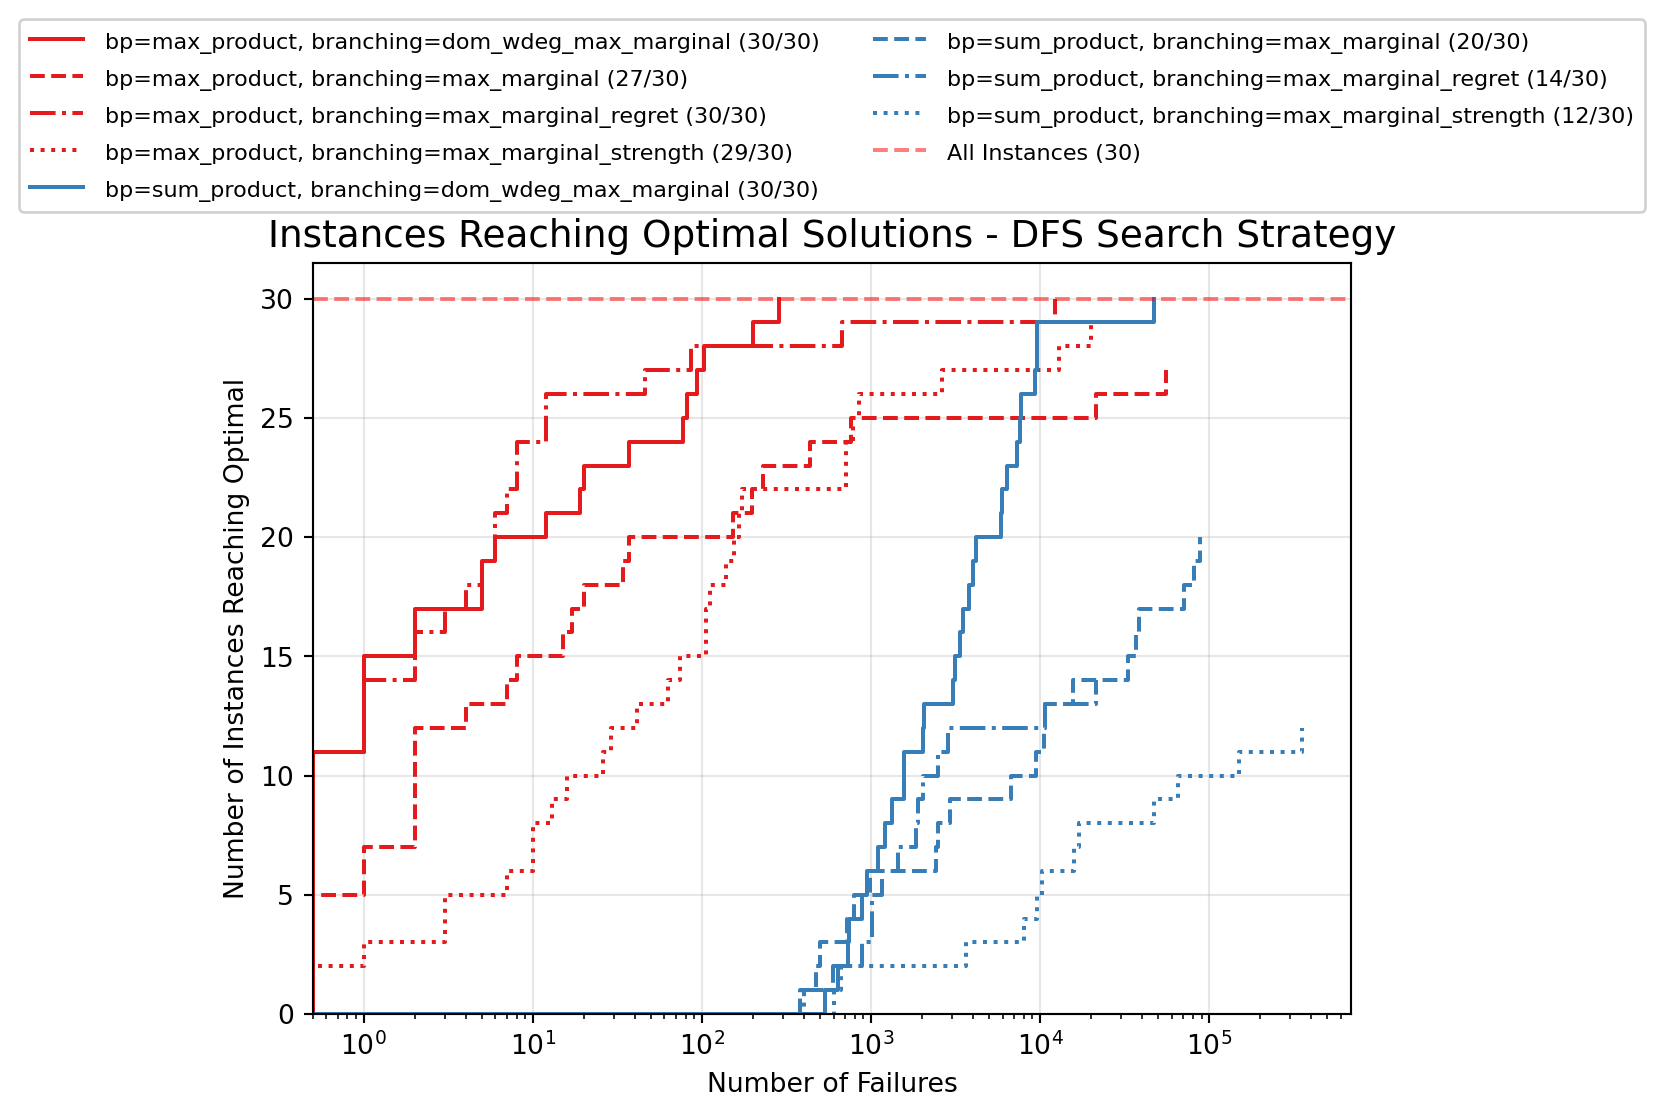
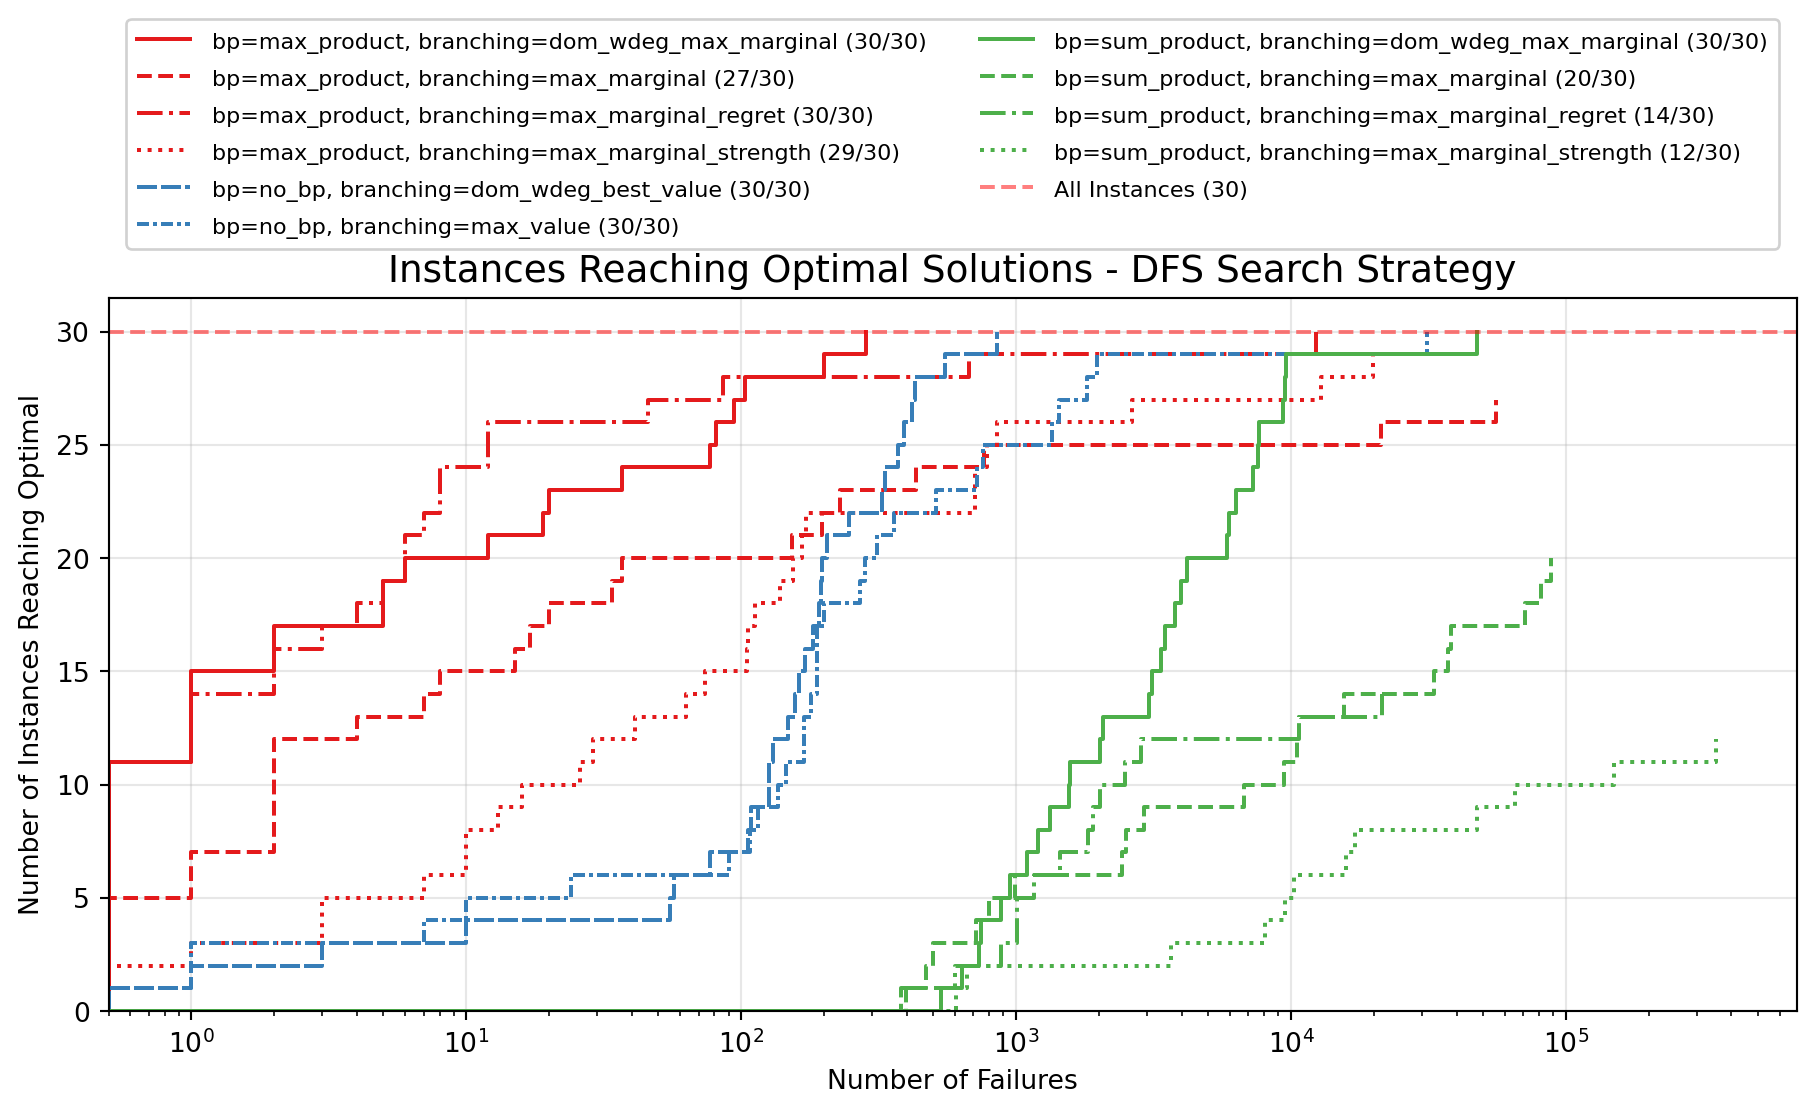
latin-square updates

diff --git a/cpbp/latin-square/branching-comparison.html b/cpbp/latin-square/branching-comparison.html
@@ -118,7 +118,7 @@ pre > code.sourceCode > span > a:first-child::before { text-decoration: underlin
 <section id="latin-square-branching-heuristic-comparison-regret-strength-max-regret" class="level1">
 <h1>Latin Square: Branching Heuristic Comparison (Regret, Strength, Max-Regret)</h1>
 <p>This notebook compares different branching heuristics for solving Latin Square optimization problems using both Sum-product and Max-product belief propagation algorithms.</p>
-<div id="c56ee7b6" class="cell" data-execution_count="1">
+<div id="1775b8c2" class="cell" data-execution_count="1">
 <details class="code-fold">
 <summary>Code</summary>
 <div class="sourceCode cell-code" id="cb1"><pre class="sourceCode python code-with-copy"><code class="sourceCode python"><span id="cb1-1"><a href="#cb1-1" aria-hidden="true" tabindex="-1"></a><span class="im">from</span> experiment_api <span class="im">import</span> set_log_level, plot_optimal_solutions_reached</span>
@@ -127,44 +127,48 @@ pre > code.sourceCode > span > a:first-child::before { text-decoration: underlin
 <span id="cb1-4"><a href="#cb1-4" aria-hidden="true" tabindex="-1"></a><span class="co"># Set log level to INFO</span></span>
 <span id="cb1-5"><a href="#cb1-5" aria-hidden="true" tabindex="-1"></a>set_log_level(<span class="st">'INFO'</span>)</span>
 <span id="cb1-6"><a href="#cb1-6" aria-hidden="true" tabindex="-1"></a></span>
-<span id="cb1-7"><a href="#cb1-7" aria-hidden="true" tabindex="-1"></a>base_filter <span class="op">=</span> {</span>
+<span id="cb1-7"><a href="#cb1-7" aria-hidden="true" tabindex="-1"></a>base_filter_bp <span class="op">=</span> {</span>
 <span id="cb1-8"><a href="#cb1-8" aria-hidden="true" tabindex="-1"></a>    <span class="st">'oracle_weight'</span>: <span class="fl">1.0</span>,</span>
 <span id="cb1-9"><a href="#cb1-9" aria-hidden="true" tabindex="-1"></a>    <span class="st">'max_iter'</span>: <span class="dv">10</span>,</span>
 <span id="cb1-10"><a href="#cb1-10" aria-hidden="true" tabindex="-1"></a>}</span>
-<span id="cb1-11"><a href="#cb1-11" aria-hidden="true" tabindex="-1"></a>group_by <span class="op">=</span> [<span class="st">'bp'</span>, <span class="st">'branching'</span>]</span></code><button title="Copy to Clipboard" class="code-copy-button"><i class="bi"></i></button></pre></div>
+<span id="cb1-11"><a href="#cb1-11" aria-hidden="true" tabindex="-1"></a>base_filter_no_bp <span class="op">=</span> {</span>
+<span id="cb1-12"><a href="#cb1-12" aria-hidden="true" tabindex="-1"></a>    <span class="st">'bp'</span>: <span class="st">'no_bp'</span></span>
+<span id="cb1-13"><a href="#cb1-13" aria-hidden="true" tabindex="-1"></a>}</span>
+<span id="cb1-14"><a href="#cb1-14" aria-hidden="true" tabindex="-1"></a>group_by <span class="op">=</span> [<span class="st">'bp'</span>, <span class="st">'branching'</span>]</span></code><button title="Copy to Clipboard" class="code-copy-button"><i class="bi"></i></button></pre></div>
 </details>
 </div>
 <section id="limited-discrepancy-search-lds" class="level2">
 <h2 class="anchored" data-anchor-id="limited-discrepancy-search-lds">Limited Discrepancy Search (LDS)</h2>
 <p>In this section, we compare different branching heuristics using the LDS search strategy.</p>
-<div id="365c9639" class="cell" data-execution_count="2">
+<div id="200ab21d" class="cell" data-execution_count="2">
 <details class="code-fold">
 <summary>Code</summary>
 <div class="sourceCode cell-code" id="cb2"><pre class="sourceCode python code-with-copy"><code class="sourceCode python"><span id="cb2-1"><a href="#cb2-1" aria-hidden="true" tabindex="-1"></a><span class="co"># Create a filter for LDS search</span></span>
-<span id="cb2-2"><a href="#cb2-2" aria-hidden="true" tabindex="-1"></a>filter_criteria <span class="op">=</span> base_filter.copy()</span>
+<span id="cb2-2"><a href="#cb2-2" aria-hidden="true" tabindex="-1"></a>filter_criteria <span class="op">=</span> base_filter_bp.copy()</span>
 <span id="cb2-3"><a href="#cb2-3" aria-hidden="true" tabindex="-1"></a>filter_criteria[<span class="st">'search_type'</span>] <span class="op">=</span> <span class="st">'lds'</span></span>
-<span id="cb2-4"><a href="#cb2-4" aria-hidden="true" tabindex="-1"></a></span>
-<span id="cb2-5"><a href="#cb2-5" aria-hidden="true" tabindex="-1"></a><span class="co"># Plot the number of instances reaching optimal solutions</span></span>
-<span id="cb2-6"><a href="#cb2-6" aria-hidden="true" tabindex="-1"></a>fig <span class="op">=</span> plot_optimal_solutions_reached(</span>
-<span id="cb2-7"><a href="#cb2-7" aria-hidden="true" tabindex="-1"></a>    filter_criteria,</span>
-<span id="cb2-8"><a href="#cb2-8" aria-hidden="true" tabindex="-1"></a>    group_by<span class="op">=</span>group_by, </span>
-<span id="cb2-9"><a href="#cb2-9" aria-hidden="true" tabindex="-1"></a>    log_scale<span class="op">=</span><span class="va">True</span>,</span>
-<span id="cb2-10"><a href="#cb2-10" aria-hidden="true" tabindex="-1"></a>    title<span class="op">=</span><span class="st">"Instances Reaching Optimal Solutions - LDS Search Strategy"</span></span>
-<span id="cb2-11"><a href="#cb2-11" aria-hidden="true" tabindex="-1"></a>)</span>
-<span id="cb2-12"><a href="#cb2-12" aria-hidden="true" tabindex="-1"></a>plt.show()</span></code><button title="Copy to Clipboard" class="code-copy-button"><i class="bi"></i></button></pre></div>
+<span id="cb2-4"><a href="#cb2-4" aria-hidden="true" tabindex="-1"></a>filter_sets <span class="op">=</span> [filter_criteria, base_filter_no_bp]</span>
+<span id="cb2-5"><a href="#cb2-5" aria-hidden="true" tabindex="-1"></a></span>
+<span id="cb2-6"><a href="#cb2-6" aria-hidden="true" tabindex="-1"></a><span class="co"># Plot the number of instances reaching optimal solutions</span></span>
+<span id="cb2-7"><a href="#cb2-7" aria-hidden="true" tabindex="-1"></a>fig <span class="op">=</span> plot_optimal_solutions_reached(</span>
+<span id="cb2-8"><a href="#cb2-8" aria-hidden="true" tabindex="-1"></a>    filter_sets,</span>
+<span id="cb2-9"><a href="#cb2-9" aria-hidden="true" tabindex="-1"></a>    group_by<span class="op">=</span>group_by, </span>
+<span id="cb2-10"><a href="#cb2-10" aria-hidden="true" tabindex="-1"></a>    log_scale<span class="op">=</span><span class="va">True</span>,</span>
+<span id="cb2-11"><a href="#cb2-11" aria-hidden="true" tabindex="-1"></a>    title<span class="op">=</span><span class="st">"Instances Reaching Optimal Solutions - LDS Search Strategy"</span></span>
+<span id="cb2-12"><a href="#cb2-12" aria-hidden="true" tabindex="-1"></a>)</span>
+<span id="cb2-13"><a href="#cb2-13" aria-hidden="true" tabindex="-1"></a>plt.show()</span></code><button title="Copy to Clipboard" class="code-copy-button"><i class="bi"></i></button></pre></div>
 </details>
 <div class="cell-output cell-output-stderr">
-<pre><code>experiment_api - INFO - Loading data using provided filters
+<pre><code>experiment_api - INFO - Processing filters to load data
 experiment_api - INFO - Starting data processing pipeline from logs
 experiment_api - INFO - Loaded 10680 experiment records
-experiment_api - INFO - Applied filters, 240 records remaining
+experiment_api - INFO - Applied filters, 360 records remaining
 experiment_api - INFO - Normalized scores relative to optimal solutions
-experiment_api - INFO - Plotting data for 8 groups</code></pre>
+experiment_api - INFO - Plotting data for 10 groups</code></pre>
 </div>
 <div class="cell-output cell-output-display">
 <div>
 <figure class="figure">
-<p><img src="branching-comparison_files/figure-html/cell-3-output-2.png" width="832" height="559" class="figure-img"></p>
+<p><img src="branching-comparison_files/figure-html/cell-3-output-2.png" width="908" height="557" class="figure-img"></p>
 </figure>
 </div>
 </div>
@@ -173,34 +177,35 @@ experiment_api - INFO - Plotting data for 8 groups</code></pre>
 <section id="depth-first-search-dfs" class="level2">
 <h2 class="anchored" data-anchor-id="depth-first-search-dfs">Depth-First Search (DFS)</h2>
 <p>In this section, we compare different branching heuristics using the DFS search strategy.</p>
-<div id="c6a3be45" class="cell" data-execution_count="3">
+<div id="d0f72c89" class="cell" data-execution_count="3">
 <details class="code-fold">
 <summary>Code</summary>
 <div class="sourceCode cell-code" id="cb4"><pre class="sourceCode python code-with-copy"><code class="sourceCode python"><span id="cb4-1"><a href="#cb4-1" aria-hidden="true" tabindex="-1"></a><span class="co"># Create a filter for DFS search</span></span>
-<span id="cb4-2"><a href="#cb4-2" aria-hidden="true" tabindex="-1"></a>filter_criteria <span class="op">=</span> base_filter.copy()</span>
+<span id="cb4-2"><a href="#cb4-2" aria-hidden="true" tabindex="-1"></a>filter_criteria <span class="op">=</span> base_filter_bp.copy()</span>
 <span id="cb4-3"><a href="#cb4-3" aria-hidden="true" tabindex="-1"></a>filter_criteria[<span class="st">'search_type'</span>] <span class="op">=</span> <span class="st">'dfs'</span></span>
-<span id="cb4-4"><a href="#cb4-4" aria-hidden="true" tabindex="-1"></a></span>
-<span id="cb4-5"><a href="#cb4-5" aria-hidden="true" tabindex="-1"></a><span class="co"># Plot the number of instances reaching optimal solutions</span></span>
-<span id="cb4-6"><a href="#cb4-6" aria-hidden="true" tabindex="-1"></a>fig <span class="op">=</span> plot_optimal_solutions_reached(</span>
-<span id="cb4-7"><a href="#cb4-7" aria-hidden="true" tabindex="-1"></a>    filter_criteria,</span>
-<span id="cb4-8"><a href="#cb4-8" aria-hidden="true" tabindex="-1"></a>    group_by<span class="op">=</span>group_by,</span>
-<span id="cb4-9"><a href="#cb4-9" aria-hidden="true" tabindex="-1"></a>    log_scale<span class="op">=</span><span class="va">True</span>,</span>
-<span id="cb4-10"><a href="#cb4-10" aria-hidden="true" tabindex="-1"></a>    title<span class="op">=</span><span class="st">"Instances Reaching Optimal Solutions - DFS Search Strategy"</span></span>
-<span id="cb4-11"><a href="#cb4-11" aria-hidden="true" tabindex="-1"></a>)</span>
-<span id="cb4-12"><a href="#cb4-12" aria-hidden="true" tabindex="-1"></a>plt.show()</span></code><button title="Copy to Clipboard" class="code-copy-button"><i class="bi"></i></button></pre></div>
+<span id="cb4-4"><a href="#cb4-4" aria-hidden="true" tabindex="-1"></a>filter_sets <span class="op">=</span> [filter_criteria, base_filter_no_bp]</span>
+<span id="cb4-5"><a href="#cb4-5" aria-hidden="true" tabindex="-1"></a></span>
+<span id="cb4-6"><a href="#cb4-6" aria-hidden="true" tabindex="-1"></a><span class="co"># Plot the number of instances reaching optimal solutions</span></span>
+<span id="cb4-7"><a href="#cb4-7" aria-hidden="true" tabindex="-1"></a>fig <span class="op">=</span> plot_optimal_solutions_reached(</span>
+<span id="cb4-8"><a href="#cb4-8" aria-hidden="true" tabindex="-1"></a>    filter_sets,</span>
+<span id="cb4-9"><a href="#cb4-9" aria-hidden="true" tabindex="-1"></a>    group_by<span class="op">=</span>group_by,</span>
+<span id="cb4-10"><a href="#cb4-10" aria-hidden="true" tabindex="-1"></a>    log_scale<span class="op">=</span><span class="va">True</span>,</span>
+<span id="cb4-11"><a href="#cb4-11" aria-hidden="true" tabindex="-1"></a>    title<span class="op">=</span><span class="st">"Instances Reaching Optimal Solutions - DFS Search Strategy"</span></span>
+<span id="cb4-12"><a href="#cb4-12" aria-hidden="true" tabindex="-1"></a>)</span>
+<span id="cb4-13"><a href="#cb4-13" aria-hidden="true" tabindex="-1"></a>plt.show()</span></code><button title="Copy to Clipboard" class="code-copy-button"><i class="bi"></i></button></pre></div>
 </details>
 <div class="cell-output cell-output-stderr">
-<pre><code>experiment_api - INFO - Loading data using provided filters
+<pre><code>experiment_api - INFO - Processing filters to load data
 experiment_api - INFO - Starting data processing pipeline from logs
 experiment_api - INFO - Loaded 10680 experiment records
-experiment_api - INFO - Applied filters, 240 records remaining
+experiment_api - INFO - Applied filters, 360 records remaining
 experiment_api - INFO - Normalized scores relative to optimal solutions
-experiment_api - INFO - Plotting data for 8 groups</code></pre>
+experiment_api - INFO - Plotting data for 10 groups</code></pre>
 </div>
 <div class="cell-output cell-output-display">
 <div>
 <figure class="figure">
-<p><img src="branching-comparison_files/figure-html/cell-4-output-2.png" width="832" height="559" class="figure-img"></p>
+<p><img src="branching-comparison_files/figure-html/cell-4-output-2.png" width="908" height="557" class="figure-img"></p>
 </figure>
 </div>
 </div>